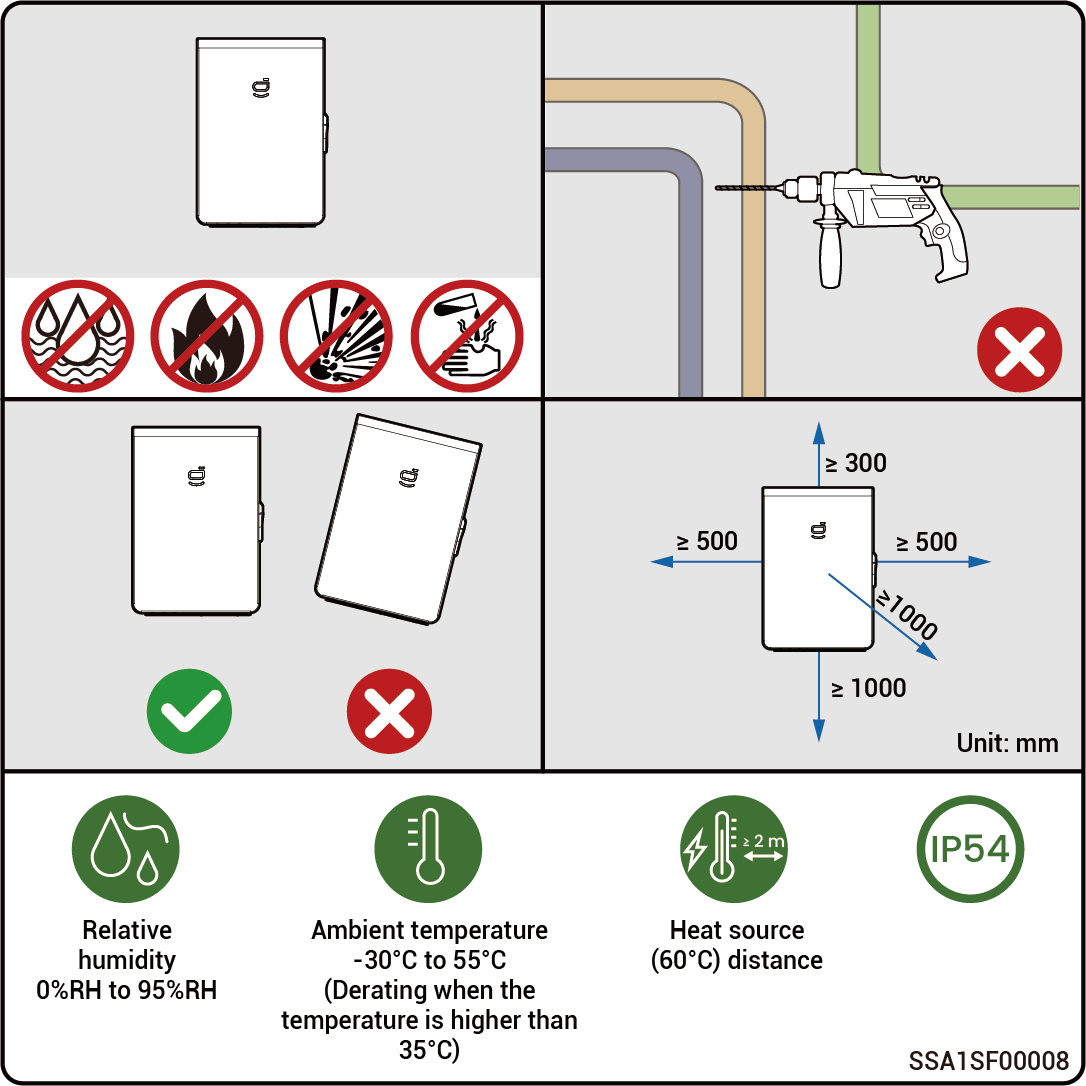
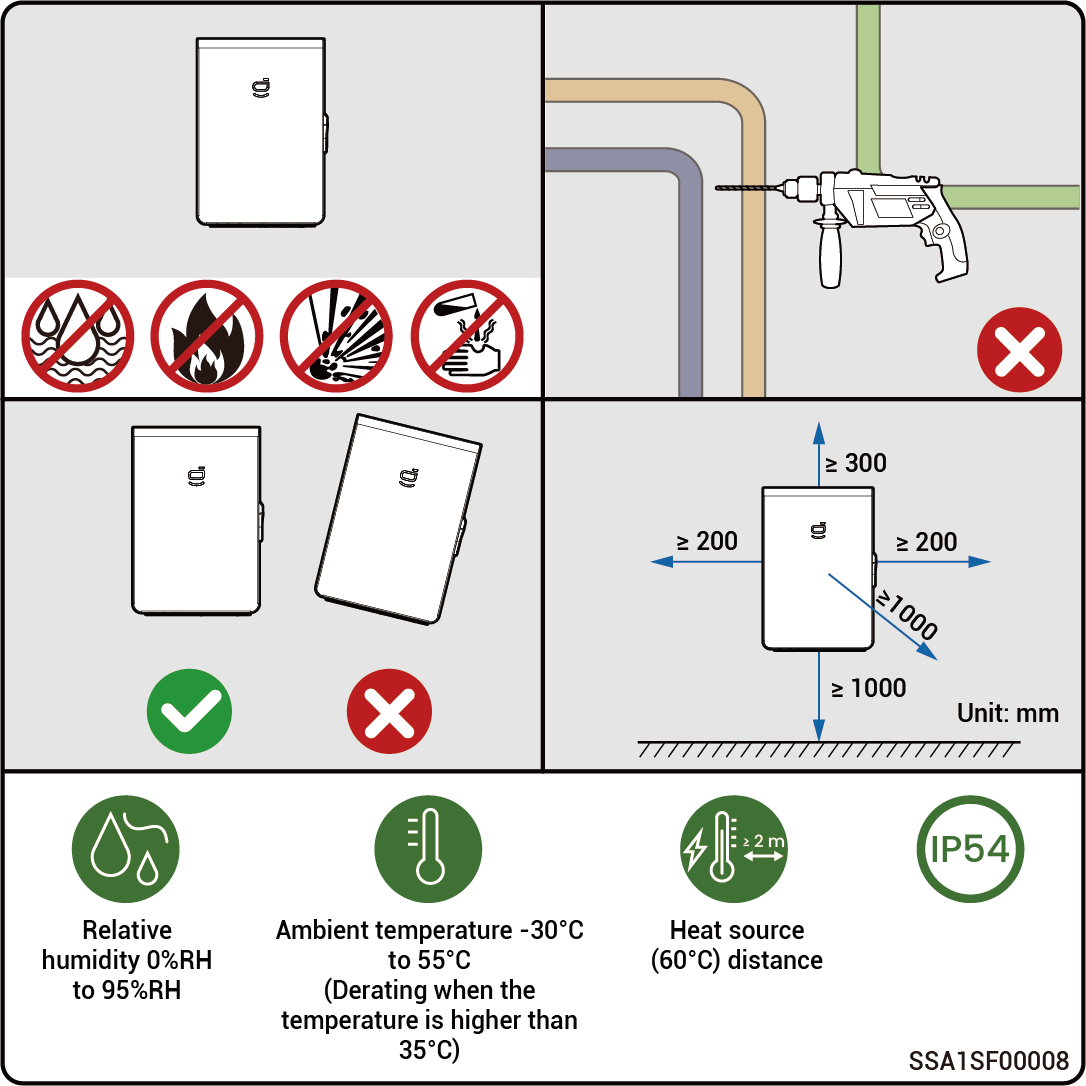
GitBook: No commit message

diff --git a/revision-history.md b/revision-history.md
@@ -1,3 +1,3 @@
 # Revision History
 
-<table><thead><tr><th width="104" align="center">Version</th><th width="139">Date</th><th>Description</th></tr></thead><tbody><tr><td align="center">04</td><td>2025.05.22</td><td>Added <a href="product-introduction/product-appearance/sigen-gateway-home-sp-au.md">Sigen Gateway Home SP AU</a><br>Added <a href="product-introduction/product-appearance/sigen-gateway-home-tp-au.md">Sigen Gateway Home TP AU</a><br>Added <a href="product-introduction/product-appearance/sigen-gateway-homepro-sp.md">Sigen Gateway HomePro SP</a></td></tr><tr><td align="center">03</td><td>2025.04.22</td><td><p>Added <a href="product-introduction/product-appearance/sigen-gateway-homemax-sp-la.md">Sigen Gateway HomeMax SP LA</a><br>Added <a href="product-introduction/product-appearance/sigen-gateway-homepro-tp.md">Sigen Gateway HomePro TP</a><br>Added <a href="product-introduction/product-appearance/sigen-gateway-homepro-tp-l.md">Sigen Gateway HomePro TP-L</a></p><p>Updated <a href="site-selection-requirements.md">Site Selection Requirements</a></p><p>Updated <a href="system-maintenance/">System Maintenance</a></p></td></tr><tr><td align="center">02</td><td>2024.12.24</td><td><p>Added <a href="product-introduction/product-appearance/sigen-gateway-sp-au.md">Sigen Gateway SP AU</a></p><p>Added <a href="product-introduction/product-appearance/sigen-gateway-tp-au-homemax-tp-cn.md">Sigen Gateway (TP AU, HomeMax TP CN)</a></p><p>Added <a href="product-introduction/product-appearance/sigen-gateway-home-tp-30k-30k-cn.md">Sigen Gateway Home TP (30K, 30K CN)</a></p><p>Updated <a href="product-introduction/label-description.md">Label Description</a></p><p>Added <a href="product-introduction/supported-power-supply-methods-for-the-power-grid.md">Supported Power Supply Methods for the Power Grid</a></p><p>Updated <a href="product-introduction/introduction-to-system-wiring.md">Introduction to system wiring</a></p><p>Updated <a href="system-maintenance/">System Maintenance</a></p></td></tr><tr><td align="center">01</td><td>2024.08.23</td><td>First official release.</td></tr></tbody></table>
+<table><thead><tr><th width="104" align="center">Version</th><th width="139">Date</th><th>Description</th></tr></thead><tbody><tr><td align="center">05</td><td>2025.08.05</td><td>Updated <a href="site-selection-requirements.md">Site Selection Requirements</a></td></tr><tr><td align="center">04</td><td>2025.05.22</td><td>Added <a href="product-introduction/product-appearance/sigen-gateway-home-sp-au.md">Sigen Gateway Home SP AU</a><br>Added <a href="product-introduction/product-appearance/sigen-gateway-home-tp-au.md">Sigen Gateway Home TP AU</a><br>Added <a href="product-introduction/product-appearance/sigen-gateway-homepro-sp.md">Sigen Gateway HomePro SP</a></td></tr><tr><td align="center">03</td><td>2025.04.22</td><td><p>Added <a href="product-introduction/product-appearance/sigen-gateway-homemax-sp-la.md">Sigen Gateway HomeMax SP LA</a><br>Added <a href="product-introduction/product-appearance/sigen-gateway-homepro-tp.md">Sigen Gateway HomePro TP</a><br>Added <a href="product-introduction/product-appearance/sigen-gateway-homepro-tp-l.md">Sigen Gateway HomePro TP-L</a></p><p>Updated <a href="site-selection-requirements.md">Site Selection Requirements</a></p><p>Updated <a href="system-maintenance/">System Maintenance</a></p></td></tr><tr><td align="center">02</td><td>2024.12.24</td><td><p>Added <a href="product-introduction/product-appearance/sigen-gateway-sp-au.md">Sigen Gateway SP AU</a></p><p>Added <a href="product-introduction/product-appearance/sigen-gateway-tp-au-homemax-tp-cn.md">Sigen Gateway (TP AU, HomeMax TP CN)</a></p><p>Added <a href="product-introduction/product-appearance/sigen-gateway-home-tp-30k-30k-cn.md">Sigen Gateway Home TP (30K, 30K CN)</a></p><p>Updated <a href="product-introduction/label-description.md">Label Description</a></p><p>Added <a href="product-introduction/supported-power-supply-methods-for-the-power-grid.md">Supported Power Supply Methods for the Power Grid</a></p><p>Updated <a href="product-introduction/introduction-to-system-wiring.md">Introduction to system wiring</a></p><p>Updated <a href="system-maintenance/">System Maintenance</a></p></td></tr><tr><td align="center">01</td><td>2024.08.23</td><td>First official release.</td></tr></tbody></table>

diff --git a/product-introduction/product-appearance/sigen-gateway-homemax-sp.md b/product-introduction/product-appearance/sigen-gateway-homemax-sp.md
@@ -8,7 +8,7 @@
 
 <figure><img src="../../.gitbook/assets/SGA1OV00002.png" alt="" width="375"><figcaption></figcaption></figure>
 
-<table><thead><tr><th width="96" align="center">S/N</th><th width="156">Marking</th><th>Description</th></tr></thead><tbody><tr><td align="center"><strong>1</strong></td><td>INV1</td><td>Wire-in port of inverter 1</td></tr><tr><td align="center"><strong>2</strong></td><td>INV2</td><td>Wire-in port of inverter 2</td></tr><tr><td align="center"><strong>3</strong></td><td>INV3</td><td>Wire-in port of inverter 3</td></tr><tr><td align="center"><strong>4</strong></td><td>BACKUP</td><td>Wire-in port of backup household loads</td></tr><tr><td align="center"><strong>5</strong></td><td>SMART-PORT</td><td>Wire-in port for smart Loads/ Generator</td></tr><tr><td align="center"><strong>6</strong></td><td>GRID</td><td>Wire-in port of power grid</td></tr><tr><td align="center"><strong>7</strong></td><td>COM</td><td>Wire-in port of communication</td></tr></tbody></table>
+<table><thead><tr><th width="96" align="center">S/N</th><th width="156">Marking</th><th>Description</th></tr></thead><tbody><tr><td align="center"><strong>1</strong></td><td>INV1</td><td>Wire-in port of inverter 1</td></tr><tr><td align="center"><strong>2</strong></td><td>INV2</td><td>Wire-in port of inverter 2</td></tr><tr><td align="center"><strong>3</strong></td><td>INV3</td><td>Wire-in port of inverter 3</td></tr><tr><td align="center"><strong>4</strong></td><td>BACKUP</td><td>Wire-in port of backup household loads</td></tr><tr><td align="center"><strong>5</strong></td><td>SMART-PORT</td><td>Wire-in port for smart Loads/ Generator</td></tr><tr><td align="center"><strong>6</strong></td><td>GRID</td><td>Wire-in port of power grid</td></tr><tr><td align="center"><strong>7</strong></td><td>COM</td><td><p>Wire-in port of</p><p>communication</p></td></tr></tbody></table>
 
 ### Interior View
 

diff --git a/system-maintenance/routine-maintenance.md b/system-maintenance/routine-maintenance.md
@@ -4,6 +4,6 @@ To ensure the long-term operating of the equipment, you are advised to perform r
 
 {% include "../.gitbook/includes/danger.md" %}
 
-<mark style="color:red;">To remove the inner panel, ask a professional for evaluation before proceeding.</mark>
+<mark style="color:red;">**To remove the inner panel, ask a professional for evaluation before proceeding.**</mark>
 
 <table><thead><tr><th width="168">Inspection Items</th><th width="220">Inspection Method</th><th width="138" align="center">Power Off or Not</th><th>Maintenance Interval</th></tr></thead><tbody><tr><td>System cleaning</td><td>Check the device regularly for shielding and dirt. If so, clean it up. Do not use tools that may cause electric shock or insulation damage, such as wire brushes and during the cleaning process.</td><td align="center">Yes</td><td>Once every 3 months</td></tr><tr><td>System operating state</td><td><ul><li>Check whether the equipment appearance is damaged or deformed.</li><li>Check for noise when the equipment is operating.</li><li>Check whether the equipment parameters are correctly set when the equipment is operating.</li></ul></td><td align="center">No</td><td>Once every 6 months</td></tr><tr><td>Electrical connection</td><td><ul><li>Check whether cable terminals are tightly connected.</li><li>Check whether cable sheath is damaged.</li><li>Check whether scratches exist on the surface where the cable contacts the metal.</li><li>Check whether unused routing holes are sealed.</li></ul></td><td align="center">Yes</td><td>Check once every 6 months after creating new systems and once every 6 to 12 months thereafter.</td></tr><tr><td>Grounding reliability</td><td>Check whether the ground cable is properly and reliably connected.</td><td align="center">No</td><td>Check once every 6 months after creating new systems and once every 6 to 12 months thereafter.</td></tr></tbody></table>

diff --git a/safety-precautions.md b/safety-precautions.md
@@ -4,7 +4,7 @@
 
 Before installation, operation, and maintenance of the equipment, familiarize yourself with this document.
 
-The "Danger ", "Warning", "Caution" items described in this manual are only supplementary to all precautions.
+The "<mark style="color:red;">Danger</mark> ", "<mark style="color:orange;">Warning</mark>", "<mark style="color:purple;">Caution</mark>" items described in this manual are only supplementary to all precautions.
 
 The Company shall not be liable for equipment damage or property loss caused by the following reasons:
 

diff --git a/site-selection-requirements.md b/site-selection-requirements.md
@@ -34,4 +34,4 @@
 * The installation base should be flat, and the installation area should meet the installation space requirements.
 * No plumbing or electrical alignments are allowed inside the installation base to avoid potential drilling hazards during equipment installation.
 
-<figure><img src=".gitbook/assets/SSA1SF00008-en.png" alt="" width="563"><figcaption></figcaption></figure>
+<figure><img src=".gitbook/assets/SSA1SF00008-en (4).png" alt="" width="563"><figcaption></figcaption></figure>

diff --git a/system-maintenance/operations-on-bypass-switch/bypass-switch-closing-procedure.md b/system-maintenance/operations-on-bypass-switch/bypass-switch-closing-procedure.md
@@ -2,7 +2,7 @@
 
 {% include "../../.gitbook/includes/tips.md" %}
 
-<mark style="color:blue;">When abnormal operation of the Gateway's grid contactor prevents power supply to the load, close the bypass switch to directly power the load from the grid.</mark>
+* <mark style="color:blue;">When abnormal operation of the Gateway's grid contactor prevents power supply to the load, close the bypass switch to directly power the load from the grid.</mark>
 
 ### Steps
 

diff --git a/README.md b/README.md
@@ -1,3 +1,3 @@
 # User Manual
 
-<div data-full-width="true"><figure><img src=".gitbook/assets/Sigen Energy Gateway户用系列 用户手册en.png" alt="" width="563"><figcaption></figcaption></figure></div>
+<div data-full-width="true"><figure><img src=".gitbook/assets/Sigen Energy Gateway户用系列 用户手册-en (1).png" alt="" width="563"><figcaption></figcaption></figure></div>

diff --git a/system-maintenance/power-off/sigen-gateway-homepro-tp-l.md b/system-maintenance/power-off/sigen-gateway-homepro-tp-l.md
@@ -2,7 +2,7 @@
 
 <figure><img src="../../.gitbook/assets/image (2) (1) (1) (1).png" alt="" width="331"><figcaption></figcaption></figure>
 
-{% include "https://app.gitbook.com/s/C7yAc8yWwipEGMaK8mJk/~/reusable/GpQNGQ2TJq5nQqVhWUIl/" %}
+{% include "../../.gitbook/includes/warning.md" %}
 
 <mark style="color:orange;">The Gateway should be disconnected in the following order:</mark>
 

diff --git a/system-maintenance/power-off/sigen-gateway-homepro-tp.md b/system-maintenance/power-off/sigen-gateway-homepro-tp.md
@@ -2,7 +2,7 @@
 
 <figure><img src="../../.gitbook/assets/image (2) (1) (1).png" alt="" width="331"><figcaption></figcaption></figure>
 
-{% include "https://app.gitbook.com/s/C7yAc8yWwipEGMaK8mJk/~/reusable/GpQNGQ2TJq5nQqVhWUIl/" %}
+{% include "../../.gitbook/includes/warning.md" %}
 
 <mark style="color:orange;">The Gateway should be disconnected in the following order:</mark>
 

diff --git a/system-maintenance/power-off/sigen-gateway-home-sp-au.md b/system-maintenance/power-off/sigen-gateway-home-sp-au.md
@@ -2,7 +2,7 @@
 
 <figure><img src="../../.gitbook/assets/image (3) (1).png" alt="" width="375"><figcaption></figcaption></figure>
 
-{% include "https://app.gitbook.com/s/C7yAc8yWwipEGMaK8mJk/~/reusable/GpQNGQ2TJq5nQqVhWUIl/" %}
+{% include "../../.gitbook/includes/warning.md" %}
 
 <mark style="color:orange;">The Gateway should be disconnected in the following order:</mark>
 

diff --git a/system-maintenance/power-off/sigen-gateway-home-tp-au.md b/system-maintenance/power-off/sigen-gateway-home-tp-au.md
@@ -2,7 +2,7 @@
 
 <figure><img src="../../.gitbook/assets/image (4) (1).png" alt="" width="375"><figcaption></figcaption></figure>
 
-{% include "https://app.gitbook.com/s/C7yAc8yWwipEGMaK8mJk/~/reusable/GpQNGQ2TJq5nQqVhWUIl/" %}
+{% include "../../.gitbook/includes/warning.md" %}
 
 <mark style="color:orange;">The Gateway should be disconnected in the following order:</mark>
 

diff --git a/system-maintenance/power-off/sigen-gateway-homemax-sp-la.md b/system-maintenance/power-off/sigen-gateway-homemax-sp-la.md
@@ -2,7 +2,7 @@
 
 <figure><img src="../../.gitbook/assets/image (6) (1).png" alt="" width="375"><figcaption></figcaption></figure>
 
-{% include "https://app.gitbook.com/s/C7yAc8yWwipEGMaK8mJk/~/reusable/GpQNGQ2TJq5nQqVhWUIl/" %}
+{% include "../../.gitbook/includes/warning.md" %}
 
 <mark style="color:orange;">The Gateway should be disconnected in the following order:</mark>
 
